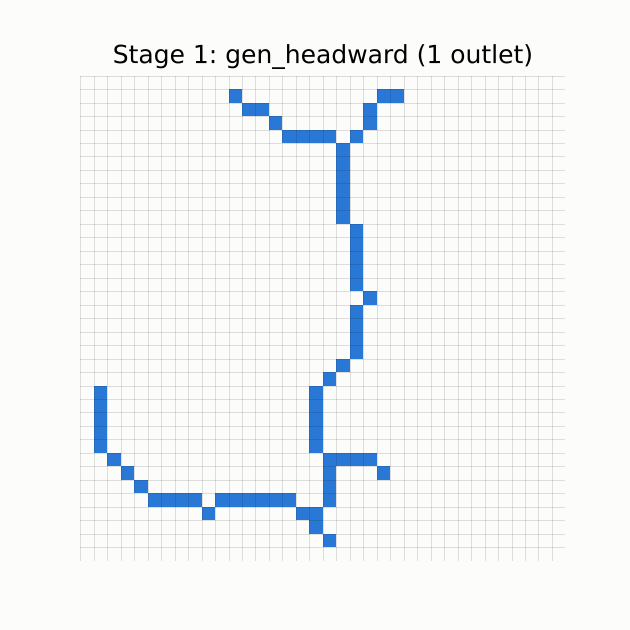
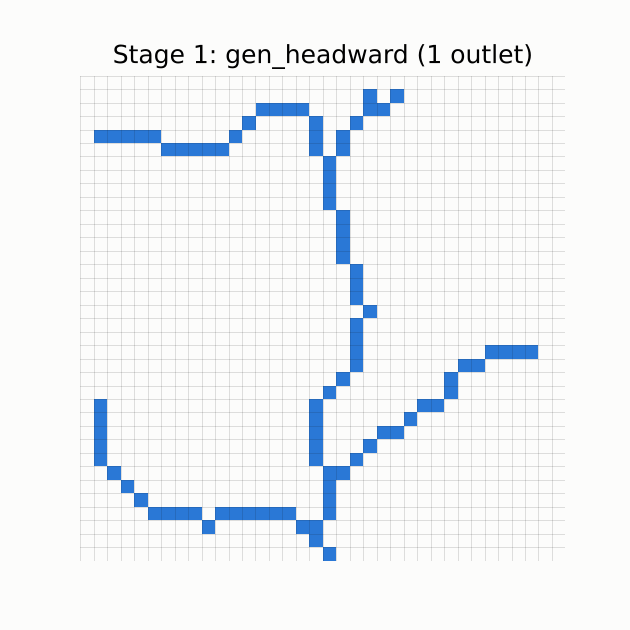
Put gen_headward's default outlet on the bottom edge; update USAGE.md example 1
The default root sat at row H-2, one pixel inside the map, while explicit
roots sit on the edge as the docstring describes.  Move it to H-1 and
regenerate the example 1 figures and values.

Claude-Session: https://claude.ai/code/session_01K9F12EKWCo2kUdrxjG52ma

diff --git a/experiments/mini.py b/experiments/mini.py
@@ -1017,7 +1017,7 @@ def gen_headward(rng, n=N, ell=5.0, split=0.45, split_p=0.0, sep=2,
         reach = budget0 * max(H, W)
     net = np.zeros((H, W), bool)
     if roots is None:
-        roots = [(H - 2, W // 2, -np.pi / 2)]
+        roots = [(H - 1, W // 2, -np.pi / 2)]
     # S = distance along the network from the outlet, recorded as each cell is
     # painted.  It is what the no-folding test compares across the plane.
     S = np.full((H, W), np.nan)
